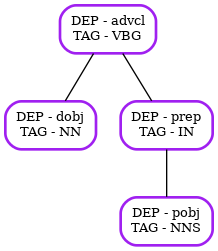
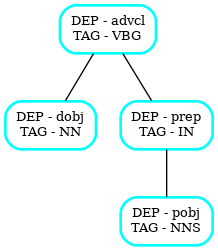
Pre package upload

diff --git a/visualise_spacy_pattern/visualise_spacy_pattern.py b/visualise_spacy_pattern/visualise_spacy_pattern.py
@@ -3,7 +3,7 @@ import pydot
 
 
 DEFAULT_NODE_ATTRS = {
-    'color': 'purple',
+    'color': 'cyan',
     'shape': 'box',
     'style': 'rounded',
     'fontname': 'palatino',
@@ -40,17 +40,17 @@ def get_node_texts(pattern):
     return new_node_texts
 
 
-def to_pydot(pattern):
+def to_pydot(pattern, edge_labels=['DEP']):
     graph = pydot.Dot(graph_type='graph')
-
     # Create and add nodes
     node_objects = {}
-    node_texts = get_node_texts(pattern)
-    for node_text, pattern_element in zip(node_texts, pattern):
+    for pattern_element in pattern:
         node_name = util.get_node_name(pattern_element)
+        node_text = get_node_text(pattern_element)
         plot_attrs = {
             **DEFAULT_NODE_ATTRS,
-            'name': node_text,
+            'name': node_name,
+            'label': node_text,
         }
         node = pydot.Node(**plot_attrs)
         node_objects[node_name] = node

diff --git a/setup.py b/setup.py
@@ -3,6 +3,9 @@ import setuptools
 with open("README.md", "r") as fh:
     long_description = fh.read()
 
+with open("requirements.txt") as fh:
+    requirements = fh.readlines()
+
 setuptools.setup(
     name="visualise-spacy-pattern",
     version="0.0.1",
@@ -13,9 +16,7 @@ setuptools.setup(
     long_description_content_type="text/markdown",
     url="https://github.com/cyclecycle/visualise-spacy-pattern",
     packages=setuptools.find_packages(),
-    install_requires=[
-        'pydot',
-    ],
+    install_requires=requirements,
     classifiers=[
         "Programming Language :: Python :: 3",
         "License :: OSI Approved :: MIT License",

diff --git a/test/test_visualise_pattern.py b/test/test_visualise_pattern.py
@@ -5,8 +5,9 @@ from visualise_spacy_pattern import to_pydot
 
 
 pattern_files = [
-    'examples/pattern_0.json',
-    'examples/pattern_1.json',
+    # 'examples/pattern_0.json',
+    # 'examples/pattern_1.json',
+    'examples/pattern_2.json',
 ]
 
 

diff --git a/README.md b/README.md
@@ -1,11 +1,17 @@
 # Visualise spacy pattern
 
+## Installation
+
+```bash
+pip install visualise-spacy-pattern
+```
+
 ## Usage
 
 ```python
 import visualise_spacy_pattern
 
-# Load the example pattern
+# Load the example dependency pattern
 pattern_file = 'examples/pattern_1.json'
 with open(pattern_file) as f:
     pattern = json.load(f)
